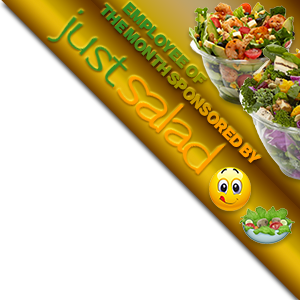
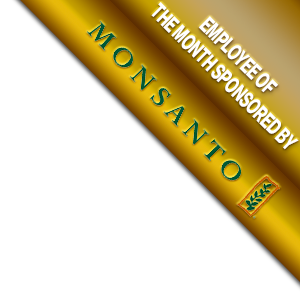
december

diff --git a/build/index.html b/build/index.html
@@ -9,6 +9,9 @@
 <body>
 
 
+<div class="snowman"></div>
+
+
 <div class="frame_top"></div>
 <div class="frame_right"></div>
 <div class="frame_bottom"></div>
@@ -30,11 +33,11 @@
 <!-- steph -->
 <div class="steph">
 	<div class="portrait">
-		<img src="steph.jpg">
+		<img src="james.jpg">
 	</div>
 
 	<div class="name">
-		Stephanie Davidson
+		James Martin Singleton
 	</div>
 	<div class="coolFacts">
 		<div class="skills">
@@ -74,21 +77,20 @@
 		<div class="skills">
 			<h1>Cool Skills</h2>
 			<ul>
-				<li>HTML</li>
-				<li>CSS</li>
-				<li>Javascript</li>
-				<li>knows Music</li>
-				<li>Tumeric powers</li>
-				<li>Pisces</li>
-				<li>Birthstone: opal</li>
+				<li>Javascript Programming</li>
+				<li>Knows Music and drums</li>
+				<li>2013 13" Macbook Pro</li>
+				<li>16GB 1600 MHz DDR3</li>
+				<li>Gemini</li>
+				<li>Birthstone: Thimblestone</li>
 			</ul>
 		</div><div class="employee">
 			<h1>About</h2>
-				James is a maverick who can code anything. He is an industry trailblazer.
+				James is a maverick who can code anything. He is an industry trailblazer who is very recognized in his field. He is currently working on public speaking skills and best practices.
 		</div>
 		<div class="runner-up">
 			<h2>Runner Up</h2>
-			Tomas Houston
+			Thomas Hodon
 		</div>
 	</div>
 </div>

diff --git a/index.html b/index.html
@@ -9,6 +9,9 @@
 <body>
 
 
+<div class="snowman"></div>
+
+
 <div class="frame_top"></div>
 <div class="frame_right"></div>
 <div class="frame_bottom"></div>
@@ -30,11 +33,11 @@
 <!-- steph -->
 <div class="steph">
 	<div class="portrait">
-		<img src="steph.jpg">
+		<img src="james.jpg">
 	</div>
 
 	<div class="name">
-		Stephanie Davidson
+		James Martin Singleton
 	</div>
 	<div class="coolFacts">
 		<div class="skills">
@@ -74,21 +77,20 @@
 		<div class="skills">
 			<h1>Cool Skills</h2>
 			<ul>
-				<li>HTML</li>
-				<li>CSS</li>
-				<li>Javascript</li>
-				<li>knows Music</li>
-				<li>Tumeric powers</li>
-				<li>Pisces</li>
-				<li>Birthstone: opal</li>
+				<li>Javascript Programming</li>
+				<li>Knows Music and drums</li>
+				<li>2013 13" Macbook Pro</li>
+				<li>16GB 1600 MHz DDR3</li>
+				<li>Gemini</li>
+				<li>Birthstone: Thimblestone</li>
 			</ul>
 		</div><div class="employee">
 			<h1>About</h2>
-				James is a maverick who can code anything. He is an industry trailblazer.
+				James is a maverick who can code anything. He is an industry trailblazer who is very recognized in his field. He is currently working on public speaking skills and best practices.
 		</div>
 		<div class="runner-up">
 			<h2>Runner Up</h2>
-			Tomas Houston
+			Thomas Hodon
 		</div>
 	</div>
 </div>

diff --git a/src/index.html b/src/index.html
@@ -9,6 +9,9 @@
 <body>
 
 
+<div class="snowman"></div>
+
+
 <div class="frame_top"></div>
 <div class="frame_right"></div>
 <div class="frame_bottom"></div>
@@ -30,11 +33,11 @@
 <!-- steph -->
 <div class="steph">
 	<div class="portrait">
-		<img src="steph.jpg">
+		<img src="james.jpg">
 	</div>
 
 	<div class="name">
-		Stephanie Davidson
+		James Martin Singleton
 	</div>
 	<div class="coolFacts">
 		<div class="skills">
@@ -74,21 +77,20 @@
 		<div class="skills">
 			<h1>Cool Skills</h2>
 			<ul>
-				<li>HTML</li>
-				<li>CSS</li>
-				<li>Javascript</li>
-				<li>knows Music</li>
-				<li>Tumeric powers</li>
-				<li>Pisces</li>
-				<li>Birthstone: opal</li>
+				<li>Javascript Programming</li>
+				<li>Knows Music and drums</li>
+				<li>2013 13" Macbook Pro</li>
+				<li>16GB 1600 MHz DDR3</li>
+				<li>Gemini</li>
+				<li>Birthstone: Thimblestone</li>
 			</ul>
 		</div><div class="employee">
 			<h1>About</h2>
-				James is a maverick who can code anything. He is an industry trailblazer.
+				James is a maverick who can code anything. He is an industry trailblazer who is very recognized in his field. He is currently working on public speaking skills and best practices.
 		</div>
 		<div class="runner-up">
 			<h2>Runner Up</h2>
-			Tomas Houston
+			Thomas Hodon
 		</div>
 	</div>
 </div>

diff --git a/src/style.css b/src/style.css
@@ -1,9 +1,35 @@
+
+
+
 body{
 	color: #D6AA51;
 	background: #000;
 	font-family: arial;
 	-webkit-font-smoothing: none;
 }
+
+@keyframes slide{
+	from {
+		transform: translateX(200%) translateZ(0);
+	}
+	to{
+		transform: translateX(-100%) translateZ(0);
+	}
+}
+
+.snowman{
+	position: fixed;
+	width: 50%;
+	height: 50%;
+	background: url('snowman.png') no-repeat center center;
+	background-size: contain;
+	bottom: 0;
+	left: 0;
+	transform: translateX(200%) translateZ(0);
+	animation: slide 10s linear infinite alternate;
+	animation-delay: 2s;
+}
+
 
 
 .logo{
@@ -62,7 +88,7 @@ body{
 	top: 70px;
 	right:70px;
 	position: fixed;
-	background: url('sponsor.png');
+	background: url('sponsor2.png');
 	height: 300px;
 	width: 300px;
 	z-index: 2;
@@ -161,10 +187,10 @@ body{
 }
 
 .steph{
-	display:block;
+	display:none;
 }
 .james{
-	display:none;
+	display:block;
 }
 
 .runner-up{

diff --git a/build/style.css b/build/style.css
@@ -5,6 +5,29 @@ body{
 	-webkit-font-smoothing: none;
 }
 
+@keyframes slide{
+	from {
+		transform: translateX(200%) translateZ(0);
+	}
+	to{
+		transform: translateX(-100%) translateZ(0);
+	}
+}
+
+.snowman{
+	position: fixed;
+	width: 50%;
+	height: 50%;
+	background: url('snowman.png') no-repeat center center;
+	background-size: contain;
+	bottom: 0;
+	left: 0;
+	transform: translateX(200%) translateZ(0);
+	animation: slide 10s linear infinite alternate;
+	animation-delay: 2s;
+}
+
+
 
 .logo{
 	margin: 0 auto 20px auto;
@@ -62,7 +85,7 @@ body{
 	top: 70px;
 	right:70px;
 	position: fixed;
-	background: url('sponsor.png');
+	background: url('sponsor2.png');
 	height: 300px;
 	width: 300px;
 	z-index: 2;
@@ -161,12 +184,11 @@ body{
 }
 
 .steph{
-	display:block;
-}
-.james{
 	display:none;
 }
-
+.james{
+	display:block;
+}
 .runner-up{
 	margin-top: 50px;
 }

diff --git a/style.css b/style.css
@@ -5,6 +5,29 @@ body{
 	-webkit-font-smoothing: none;
 }
 
+@keyframes slide{
+	from {
+		transform: translateX(200%) translateZ(0);
+	}
+	to{
+		transform: translateX(-100%) translateZ(0);
+	}
+}
+
+.snowman{
+	position: fixed;
+	width: 50%;
+	height: 50%;
+	background: url('snowman.png') no-repeat center center;
+	background-size: contain;
+	bottom: 0;
+	left: 0;
+	transform: translateX(200%) translateZ(0);
+	animation: slide 10s linear infinite alternate;
+	animation-delay: 2s;
+}
+
+
 
 .logo{
 	margin: 0 auto 20px auto;
@@ -62,7 +85,7 @@ body{
 	top: 70px;
 	right:70px;
 	position: fixed;
-	background: url('sponsor.png');
+	background: url('sponsor2.png');
 	height: 300px;
 	width: 300px;
 	z-index: 2;
@@ -161,10 +184,10 @@ body{
 }
 
 .steph{
-	display:block;
+	display:none;
 }
 .james{
-	display:none;
+	display:block;
 }
 
 .runner-up{
